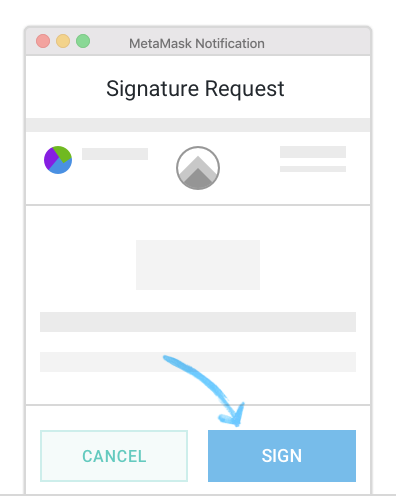
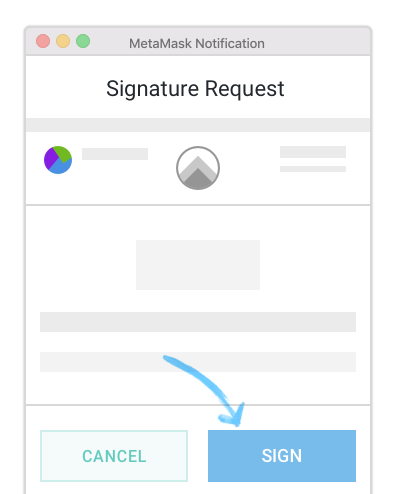
Style ETH auth

diff --git a/packages/newsroom-signup/src/WalletOnboardingV2.tsx b/packages/newsroom-signup/src/WalletOnboardingV2.tsx
@@ -15,6 +15,7 @@ import {
   metaMaskLoginImgSrc,
   metaMaskFrontLargeImgSrc,
   metaMaskConnectImgSrc,
+  metaMaskSignImgSrc,
   Collapsable,
 } from "@joincivil/components";
 import {
@@ -47,13 +48,12 @@ export interface WalletOnboardingV2Props {
   notEnabled?: boolean;
   requireAuth?: boolean;
   enable(): void;
-  saveAddressToProfile?(): Promise<void>;
   onOnboardingComplete?(): void;
   onContinue?(): void;
 }
 
 export interface WalletOnboardingV2State {
-  justSaved?: boolean;
+  justSaved?: boolean; // @TODO/toby Remove
 }
 
 const Wrapper = styled.div`
@@ -82,8 +82,9 @@ const LargeishButton = styled(Button)`
 const WalletAddress = styled(AddressWithMetaMaskIcon)`
   margin-bottom: 28px;
 `;
-const ProfileWalletAddress = styled.span`
+const ProfileWalletAddress = styled.div`
   font-family: ${fonts.MONOSPACE};
+  margin-bottom: 12px;
 `;
 
 const ArrowWrap = styled.span`
@@ -91,13 +92,6 @@ const ArrowWrap = styled.span`
   path {
     fill: ${colors.accent.CIVIL_BLUE};
   }
-`;
-
-const WalletAction = styled.div`
-  display: inline-block;
-  margin-left: 12px;
-  padding-left: 15px;
-  border-left: 1px solid #dddddd;
 `;
 
 const WalletLabel = styled.p`
@@ -141,6 +135,9 @@ const InstructionsImage = styled.img`
   height: 240px;
   width: auto;
 `;
+const InstructionsButtonWrap = styled.div`
+  margin-top: 24px;
+`;
 
 const GetMetaMaskBox = styled(BorderedSectionActive)`
   margin: 24px auto 12px;
@@ -159,12 +156,13 @@ const GetMetaMaskText = styled.div`
   font-weight: bold;
   line-height: 22px;
 `;
-const GetMetaMaskButtonWrap = styled.div`
-  margin-top: 32px;
-  margin-bottom: 80px;
-`;
 const GetMetaMaskMoreHelp = styled(SmallParagraph)`
   text-align: left;
+`;
+
+const ContinueButtonWrap = styled.div`
+  margin-top: 48px;
+  margin-bottom: 80px;
 `;
 
 export class WalletOnboardingV2 extends React.Component<WalletOnboardingV2Props, WalletOnboardingV2State> {
@@ -197,13 +195,6 @@ export class WalletOnboardingV2 extends React.Component<WalletOnboardingV2Props,
             .
           </SmallestParagraph>
 
-          <GetMetaMaskButtonWrap>
-            {/*@TODO/toby change button style*/}
-            <LargeishButton size={buttonSizes.MEDIUM_WIDE} disabled={true}>
-              Continue
-            </LargeishButton>
-          </GetMetaMaskButtonWrap>
-
           {this.renderFaqEtc()}
         </Wrapper>
       );
@@ -219,7 +210,9 @@ export class WalletOnboardingV2 extends React.Component<WalletOnboardingV2Props,
           <InstructionsWrapper>
             <InstructionsText>
               <p>MetaMask will open a new window, and will ask you connect Civil to MetaMask to grant access.</p>
-              <MetaMaskLogoButton onClick={() => this.props.enable()}>Open MetaMask</MetaMaskLogoButton>
+              <InstructionsButtonWrap>
+                <MetaMaskLogoButton onClick={() => this.props.enable()}>Open MetaMask</MetaMaskLogoButton>
+              </InstructionsButtonWrap>
             </InstructionsText>
             <InstructionsImage src={metaMaskConnectImgSrc} />
           </InstructionsWrapper>
@@ -227,13 +220,6 @@ export class WalletOnboardingV2 extends React.Component<WalletOnboardingV2Props,
           <SmallestParagraph>
             If you do not see the MetaMask popup, please click the <MetaMaskIcon /> icon in your browser address bar.
           </SmallestParagraph>
-
-          <GetMetaMaskButtonWrap>
-            {/*@TODO/toby change button style*/}
-            <LargeishButton size={buttonSizes.MEDIUM_WIDE} disabled={true}>
-              Continue
-            </LargeishButton>
-          </GetMetaMaskButtonWrap>
 
           {this.renderFaqEtc()}
         </Wrapper>
@@ -255,13 +241,6 @@ export class WalletOnboardingV2 extends React.Component<WalletOnboardingV2Props,
             </InstructionsText>
             <InstructionsImage src={metaMaskLoginImgSrc} />
           </InstructionsWrapper>
-
-          <GetMetaMaskButtonWrap>
-            {/*@TODO/toby change button style*/}
-            <LargeishButton size={buttonSizes.MEDIUM_WIDE} disabled={true}>
-              Continue
-            </LargeishButton>
-          </GetMetaMaskButtonWrap>
 
           {this.renderFaqEtc()}
         </Wrapper>
@@ -285,71 +264,59 @@ export class WalletOnboardingV2 extends React.Component<WalletOnboardingV2Props,
             <InstructionsImage src={metaMaskNetworkSwitchImgSrc} />
           </InstructionsWrapper>
 
-          <GetMetaMaskButtonWrap>
-            {/*@TODO/toby change button style*/}
-            <LargeishButton size={buttonSizes.MEDIUM_WIDE} disabled={true}>
-              Continue
-            </LargeishButton>
-          </GetMetaMaskButtonWrap>
-
           {this.renderFaqEtc()}
         </Wrapper>
       );
     } else if (this.props.metamaskWalletAddress) {
-      if (this.props.saveAddressToProfile && !this.props.profileWalletAddress) {
+      if (this.props.requireAuth && !this.props.profileWalletAddress) {
         return (
           <Wrapper>
-            <ManagerSectionHeading>Wallet Connected</ManagerSectionHeading>
-            <p>Your wallet is connected. Now you can add your public wallet address to your WordPress user profile.</p>
-            <WalletLabel>Your wallet address</WalletLabel>
-            <WalletAddress address={this.props.metamaskWalletAddress} />{" "}
-            <WalletAction>
-              <Button
-                size={buttonSizes.MEDIUM_WIDE}
-                onClick={this.saveAddress}
-                disabled={this.props.profileAddressSaving}
-              >
-                Save to Your Profile
-              </Button>
-            </WalletAction>
-          </Wrapper>
-        );
-      } else if (
-        this.props.saveAddressToProfile &&
-        this.props.metamaskWalletAddress !== this.props.profileWalletAddress
-      ) {
-        return (
-          <Wrapper>
-            <ManagerSectionHeading>Wallet Connected</ManagerSectionHeading>
-            <p style={{ color: "#f2524a" }}>
-              Your WordPress user profile wallet address does not match your MetaMask wallet address
-            </p>
-            <WalletLabel>Profile wallet address</WalletLabel>
-            <ProfileWalletAddress>{this.props.profileWalletAddress}</ProfileWalletAddress>{" "}
-            <WalletLabel>Connected wallet address</WalletLabel>
-            <WalletAddress address={this.props.metamaskWalletAddress} />{" "}
-            <WalletAction>
-              <Button
-                size={buttonSizes.MEDIUM_WIDE}
-                onClick={this.saveAddress}
-                disabled={this.props.profileAddressSaving}
-              >
-                Update Profile Address
-              </Button>
-            </WalletAction>
-          </Wrapper>
-        );
-      } else if (this.props.requireAuth && !this.props.profileWalletAddress) {
-        return (
-          <Wrapper>
-            <AccountEthAuth civil={this.props.civil!} onAuthenticated={this.props.onOnboardingComplete} />
+            <SectionTitle>Log in to Civil with your crypto wallet</SectionTitle>
+            <IntroText>
+              Almost there! To set up your Civil account, you need to authenticate your account with a signature. This is similar to signing in with a password. It verifies your account with your crypto wallet.
+            </IntroText>
+
+            <InstructionsWrapper>
+              <InstructionsText>
+                <p>
+                  MetaMask will open a new window, and will require you to sign a message.
+                </p>
+                <InstructionsButtonWrap>
+                  <AccountEthAuth civil={this.props.civil!} onAuthenticated={this.props.onOnboardingComplete} buttonOnly={true} />
+                </InstructionsButtonWrap>
+              </InstructionsText>
+              <InstructionsImage src={metaMaskSignImgSrc} />
+            </InstructionsWrapper>
+
+            {this.renderFaqEtc()}
           </Wrapper>
         );
       } else if (this.props.requireAuth && this.props.metamaskWalletAddress !== this.props.profileWalletAddress) {
         return (
           <Wrapper>
-            <b>@TODO/toby Mismatch between MM address and profile address - update component copy.</b>
-            <AccountEthAuth civil={this.props.civil!} onAuthenticated={this.props.onOnboardingComplete} />
+            <SectionTitle>Log in to Civil with your crypto wallet</SectionTitle>
+            <IntroText>
+              The wallet address saved in your profile does not match your current MetaMask wallet address. Please update your profile, or switch MetaMask to use the wallet that is saved to your profile.
+            </IntroText>
+
+            <WalletLabel>Profile wallet address</WalletLabel>
+            <ProfileWalletAddress>{this.props.profileWalletAddress}</ProfileWalletAddress>{" "}
+            <WalletLabel>Connected MetaMask wallet address</WalletLabel>
+            <WalletAddress address={this.props.metamaskWalletAddress} />{" "}
+
+            <InstructionsWrapper>
+              <InstructionsText>
+                <p>
+                  Open MetaMask to sign a message to authenticate your MetaMask address and save it to your profile.
+                </p>
+                <InstructionsButtonWrap>
+                  <AccountEthAuth civil={this.props.civil!} onAuthenticated={this.props.onOnboardingComplete} buttonOnly={true} buttonText={"Update Profile"} />
+                </InstructionsButtonWrap>
+              </InstructionsText>
+              <InstructionsImage src={metaMaskSignImgSrc} />
+            </InstructionsWrapper>
+
+            {this.renderFaqEtc()}
           </Wrapper>
         );
       } else {
@@ -376,6 +343,13 @@ export class WalletOnboardingV2 extends React.Component<WalletOnboardingV2Props,
   private renderFaqEtc = (): JSX.Element => {
     return (
       <>
+        <ContinueButtonWrap>
+          {/*@TODO/toby change button style*/}
+          <LargeishButton size={buttonSizes.MEDIUM_WIDE} disabled={true}>
+            Continue
+          </LargeishButton>
+        </ContinueButtonWrap>
+
         <NoteContainer>
           <NoteHeading>Using a different wallet?</NoteHeading>
           <NoteText>
@@ -456,17 +430,5 @@ export class WalletOnboardingV2 extends React.Component<WalletOnboardingV2Props,
         </GetMetaMaskMoreHelp>
       </>
     );
-  };
-
-  private saveAddress = async () => {
-    if (!this.props.saveAddressToProfile) {
-      return;
-    }
-    await this.props.saveAddressToProfile();
-    this.setState({ justSaved: true });
-
-    if (this.props.onOnboardingComplete) {
-      this.props.onOnboardingComplete();
-    }
   };
 }

diff --git a/packages/components/src/Account/Auth/EthAuth.tsx b/packages/components/src/Account/Auth/EthAuth.tsx
@@ -10,11 +10,13 @@ import {
   ManagerSectionHeading,
   MetaMaskModal,
   ModalHeading,
+  metaMaskSignImgSrc,
 } from "../../";
-import * as metaMaskSignatureReqUrl from "../../images/img-metamaskmodal-new-signature.png";
 
 export interface AccountEthAuthProps {
   civil: Civil;
+  buttonText?: string;
+  buttonOnly?: boolean;
   onAuthenticated?(address: EthAddress): void;
 }
 
@@ -46,6 +48,35 @@ export class AccountEthAuth extends React.Component<AccountEthAuthProps, Account
   }
 
   public render(): JSX.Element {
+    if (this.props.buttonOnly) {
+      return this.renderTransactionUI();
+    }
+
+    return (
+      <>
+        <ManagerSectionHeading>Log into Civil with your crypto wallet</ManagerSectionHeading>
+        <p>
+          Almost there! To set up your Civil account, you need to authenticate your account with a signature. This
+          is similar to signing in with a password. It verifies your account with your crypto wallet.
+        </p>
+
+        <div>
+          <p>MetaMask will open a new window, and will require you to sign a message.</p>
+          {this.renderTransactionUI()}
+          <img src={metaMaskSignImgSrc} />
+        </div>
+      </>
+    );
+  }
+
+  public componentDidMount(): void {
+    this._isMounted = true;
+  }
+  public componentWillUnmount(): void {
+    this._isMounted = false;
+  }
+
+  private renderTransactionUI(): JSX.Element {
     return (
       <Mutation
         mutation={setEthAddressMutation}
@@ -63,22 +94,12 @@ export class AccountEthAuth extends React.Component<AccountEthAuthProps, Account
       >
         {userSetEthAddress => (
           <>
-            <ManagerSectionHeading>Log into Civil with your crypto wallet</ManagerSectionHeading>
-            <p>
-              Almost there! To set up your Civil account, you need to authenticate your account with a signature. This
-              is similar to signing in with a password. It verifies your account with your crypto wallet.
-            </p>
-
-            <div>
-              <p>MetaMask will open a new window, and will require you to sign a message.</p>
-              <TransactionButtonNoModal
-                transactions={this.signTransactions(userSetEthAddress)}
-                Button={props => {
-                  return <MetaMaskLogoButton onClick={props.onClick}>Open MetaMask</MetaMaskLogoButton>;
-                }}
-              />
-              <img src={metaMaskSignatureReqUrl} />
-            </div>
+            <TransactionButtonNoModal
+              transactions={this.signTransactions(userSetEthAddress)}
+              Button={props => {
+                return <MetaMaskLogoButton onClick={props.onClick}>{ this.props.buttonText || "Open MetaMask"}</MetaMaskLogoButton>;
+              }}
+            />
 
             {this.renderWaitingSignModal()}
             {this.renderSignRejectionModal(userSetEthAddress)}
@@ -87,13 +108,6 @@ export class AccountEthAuth extends React.Component<AccountEthAuthProps, Account
         )}
       </Mutation>
     );
-  }
-
-  public componentDidMount(): void {
-    this._isMounted = true;
-  }
-  public componentWillUnmount(): void {
-    this._isMounted = false;
   }
 
   private renderWaitingSignModal(): JSX.Element | null {
